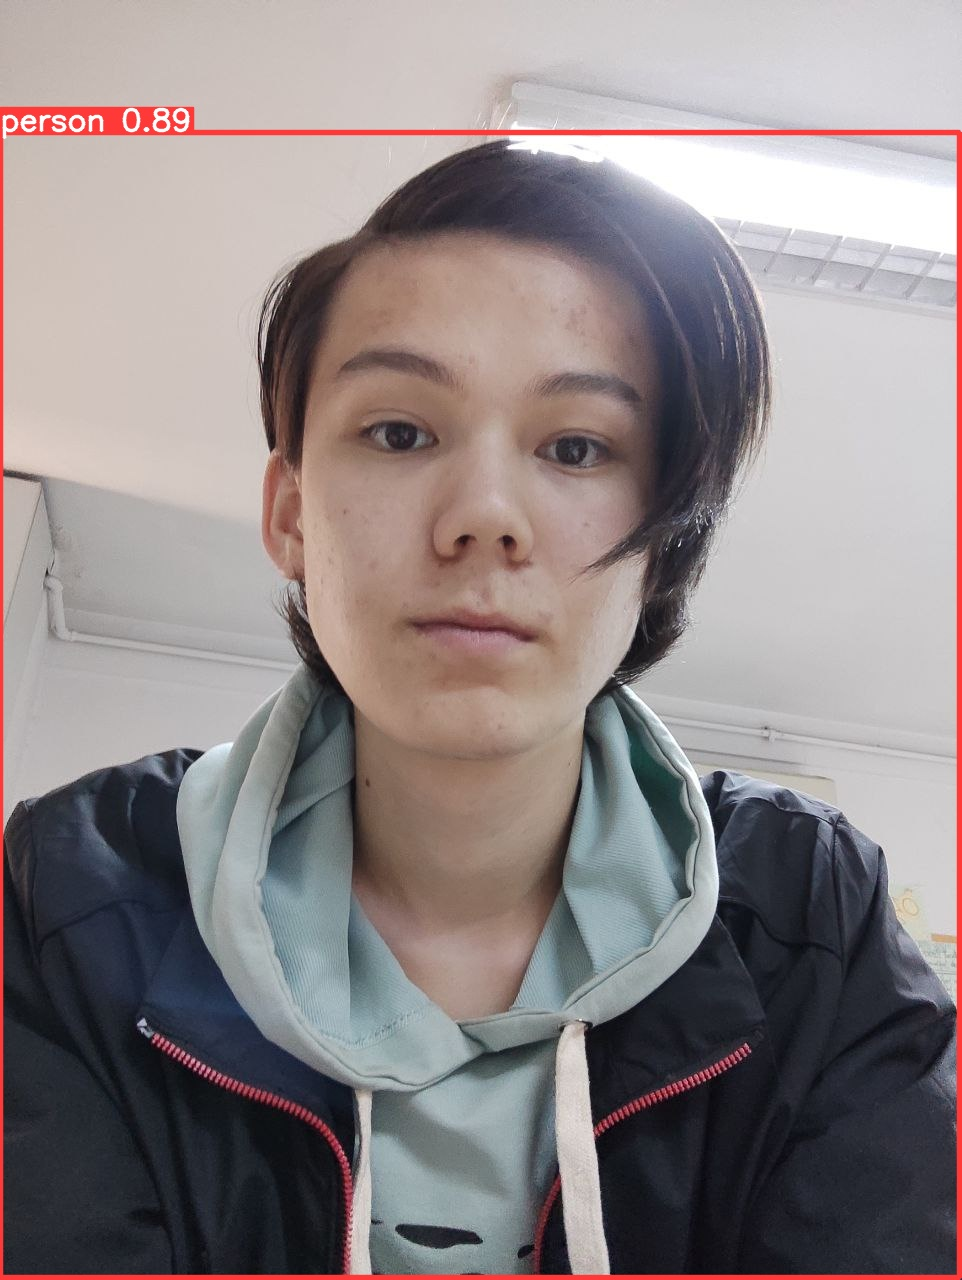
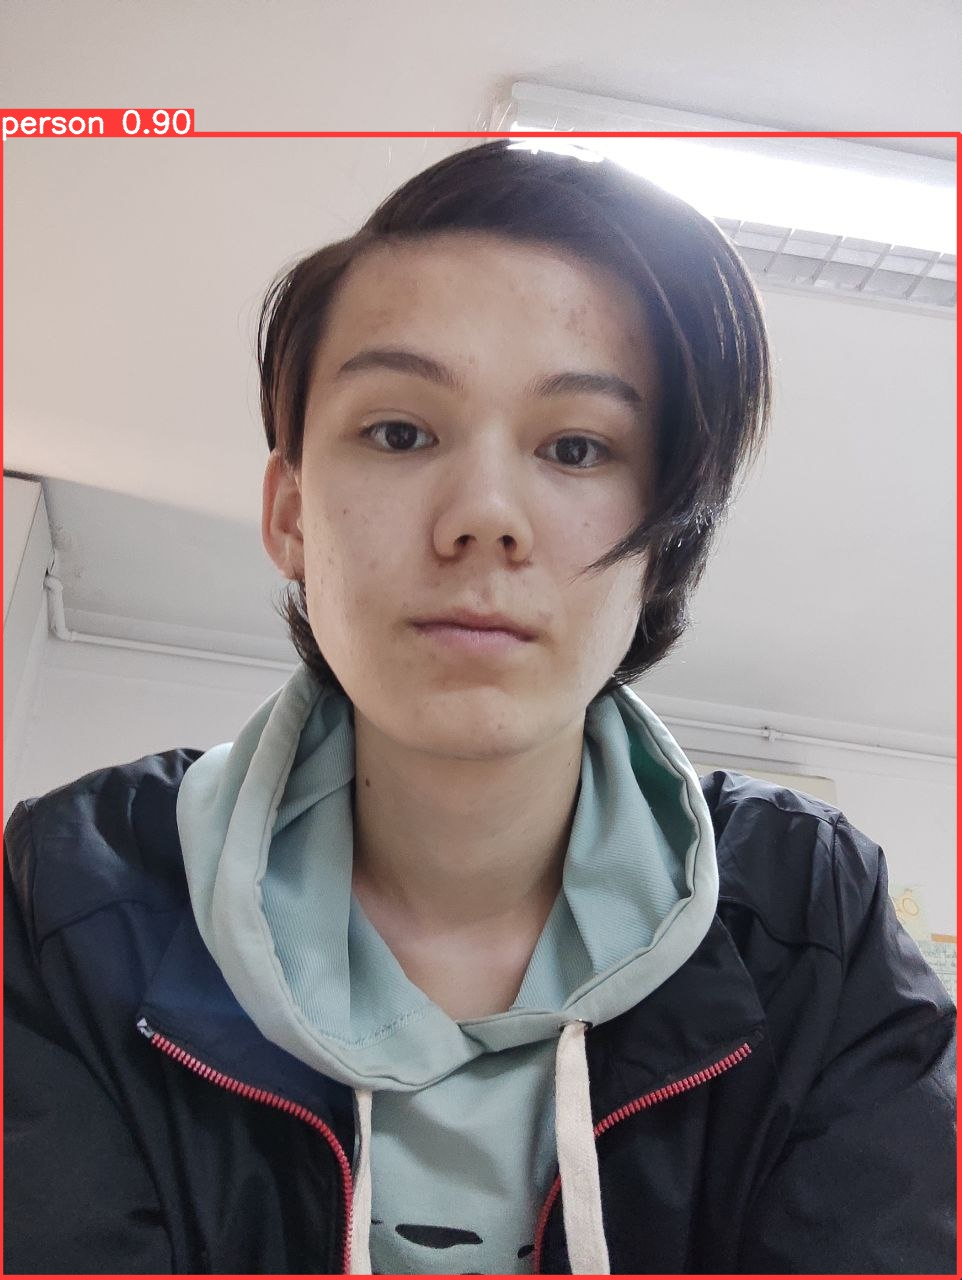
Added more test images for the users

Changed region(s): [[0.0, 0.0625, 0.9979, 0.125]]

diff --git a/YOLO_on_image.py b/YOLO_on_image.py
@@ -7,8 +7,9 @@ import os
 from ultralytics import YOLO
 import cv2
 
-# downloads yolov8 model if is not downloaded yet then loads the model
-model = YOLO('runs/detect/train3/weights/best.pt')
+# yolov8n.pt to load the YOLO version 8 model weights 
+model = YOLO('runs/detect/train2/weights/best.pt')
+
 
 def annotate(img_path, show=False):    
     """
